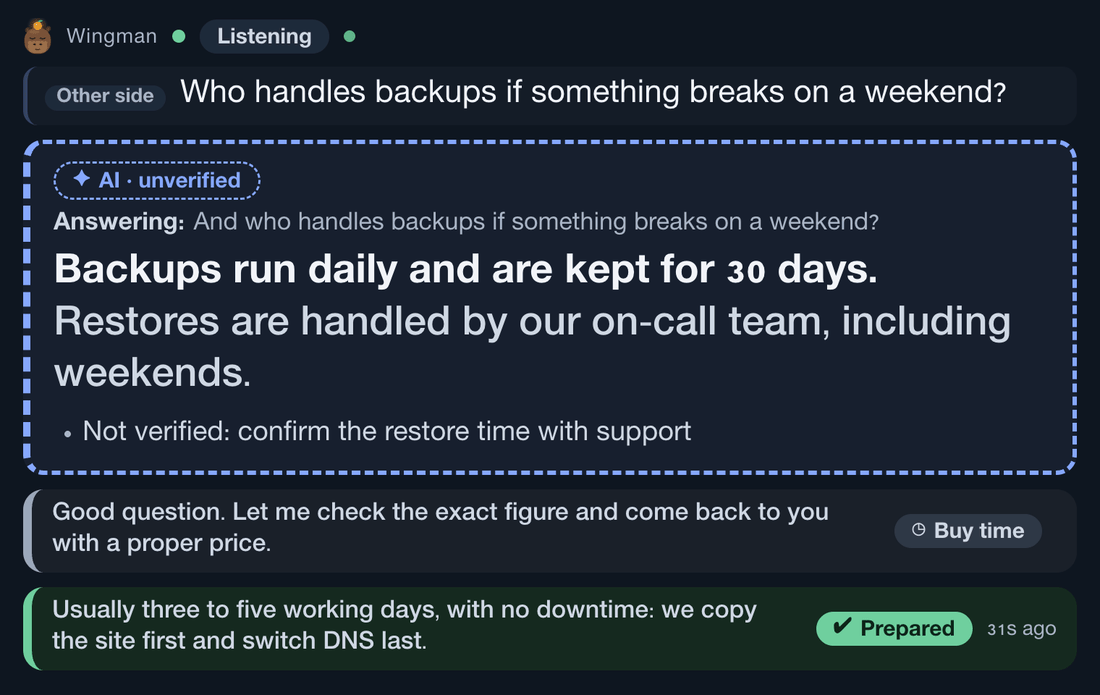
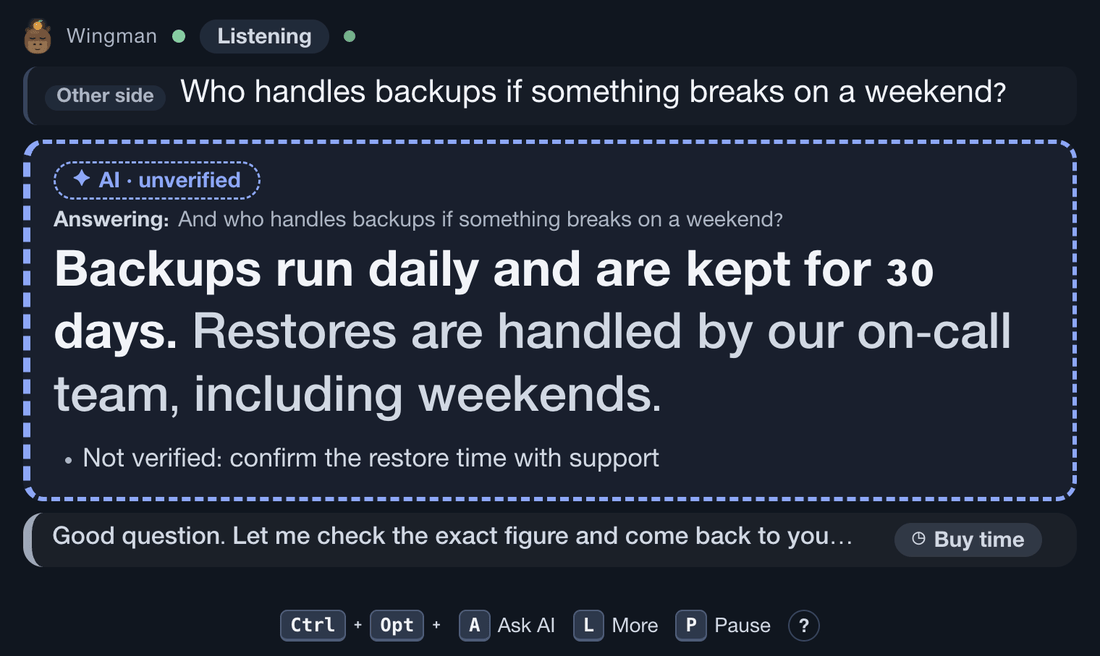
Docs: retake screenshots for the Focus layout, follow-up page and starter packs

diff --git a/docs/USER-GUIDE.md b/docs/USER-GUIDE.md
@@ -32,19 +32,28 @@ All pictures use invented data. The client, the numbers and the answers are made
 
 ### The answer window
 
-This is the window you read during a call. Put it on the second screen. By default it uses the **Focus** layout: what they said, one big answer, and a small **More: 3** button (or Ctrl+Opt+L) that opens the checklist, client card, AI notes and captured details. In **Settings, Answer window layout** you can switch to **Full**, which shows everything at once, as in the picture below.
+This is the window you read during a call. Put it on the second screen. By default it uses the **Focus** layout: what they said, one big answer, one small line for the answer before it, and a **More** button. In **Settings, Answer window layout** you can switch to **Full**, which shows everything at once.
 
-<img src="ux/answer-window-en-ui.png" alt="The answer window with a transcript line, an AI card, a buy-time line, captured details, a checklist, a client card and AI notes" width="520">
+<img src="ux/answer-window-en-ui.png" alt="The answer window in the Focus layout: the other side's last line, one big AI answer, a buy-time line, a More button and the key bar" width="520">
 
 1. **Listening** (top): Wingman hears the call. It says **Paused** when you pause it. Next to it are two small dots: the first shows the call state, the last one is the health dot. Green means everything works, amber means something is degraded (for example a weak microphone), red means something is not working. Hover over it to read the reason.
 2. **Other side**: the last thing the other person said.
-3. **AI · unverified** (dashed border): an answer written by the AI. Check it before you say it. A line starting "Answering:" shows which question it answers.
+3. **AI · unverified** (dashed border): the one big answer, written by the AI. Check it before you say it. A line starting "Answering:" shows which question it answers.
 4. **Prepared** (green, not shown here): an answer from your own answer pack. You wrote it, so you can trust it more.
-5. **Buy time**: a safe line to say while you check a number. Wingman uses it instead of inventing a price or a date.
-6. **Numbered chips** (Phone, Email, Domain): details heard in the call. Press Ctrl+Opt and the number to copy one.
-7. **You have not talked about:** your checklist of topics still open. **Levy Electronics** is the client card. **AI notes** are points the AI noticed.
-8. **Bottom bar**: the hotkeys. In Focus it shows three: Ctrl+Opt+A asks the AI, L opens More, P pauses. Press **?** to see all of them (R shows what they said, C clears, 1-3 copy a detail). Full shows them all.
-9. **Writing...**: while an AI answer is still arriving, its label says so. Wait until it stops before you read it out.
+5. **Buy time**: the small line under the big card. It is the answer before this one. Here it is a safe line to say while you check a number. Wingman uses it instead of inventing a price or a date.
+6. **More: 8** (Ctrl+Opt+L): opens the extra panel, shown next. It closes by itself after a while.
+7. **Key bar** (bottom): Ctrl+Opt+A asks the AI, L opens More, P pauses. Press **?** to see all of them (R shows what they said, C clears, 1-3 copy a detail).
+8. **Writing...**: while an AI answer is still arriving, its label says so. Wait until it stops before you read it out.
+
+#### The More panel
+
+<img src="ux/answer-window-more.png" alt="The answer window with the More panel open: numbered chips for a phone number, an email and a domain, a checklist, a client card and AI notes" width="520">
+
+1. **Numbered chips** (Phone, Email, Domain): details heard in the call. Press Ctrl+Opt and the number to copy one.
+2. **You have not talked about:** your checklist of topics still open.
+3. **Levy Electronics** is the client card. **AI notes** are points the AI noticed.
+
+In the Full layout all of this is on screen all the time.
 
 ### Home, during a call
 
@@ -68,7 +77,7 @@ This is the window you read during a call. Put it on the second screen. By defau
 
 ### One call: Follow-up
 
-<img src="ux/call-detail-followup.png" alt="A finished call with the Follow-up tab: summary, next steps, decisions, open questions and a follow-up email" width="640">
+<img src="ux/call-detail-followup.png" alt="A finished call opening on the Follow-up tab: big Copy follow-up email and Copy summary buttons, the summary, next steps, decisions and the email draft" width="640">
 
 1. **Live** or **Practice** shows what kind of call it was. **Delete call** removes it.
 2. **Tabs**: **Follow-up**, **Rate** (mark each card useful or not), **Transcript**, **Missed questions** (questions with no card) and **Details**.
@@ -83,6 +92,13 @@ This is the window you read during a call. Put it on the second screen. By defau
 2. **Open** shows the details of a step. **Close** hides them again.
 3. Below the practice call are the two key fields (Deepgram and Anthropic). Paste a key, press **Save**, then test it. The next steps cover "Your privacy" (two choices about listening and your audio), permissions, microphone, screens, your answer pack, a readiness check and a practice call.
 4. **Skip this step** is always allowed. You can come back from **Settings, Setup guide**.
+
+The **Answer pack** step offers starter packs, so you do not begin with an empty folder:
+
+<img src="ux/setup-starter-packs.png" alt="The Answer pack step open, with a Start from list: Sales, Customer support, Job interview practice, Empty pack and Web hosting example, and a Copy to my folder button" width="520">
+
+1. **Start from**: pick the starter closest to your work. **Web hosting (example)** is the invented example Wingman uses until you choose.
+2. **Copy to my folder** copies the starter to your own pack folder. You edit the copy there. **Keep the example for now** changes nothing.
 
 ## Update and uninstall
 

diff --git a/README.md b/README.md
@@ -11,7 +11,7 @@
 </p>
 
 <p align="center">
-  <img src="docs/ux/hero.gif" alt="The Wingman answer window during a call: a client asks about a CDN, a migration and a price, and answer cards appear within about a second (invented example)" width="560">
+  <img src="docs/ux/hero.gif" alt="The Wingman answer window during a call: a client asks about a CDN, a migration and a price, and one big answer card appears within about a second (invented example)" width="560">
 </p>
 
 Wingman is a live call copilot for client, support and team calls. It listens to your call (the other side on system audio, you on the microphone), transcribes it in real time and shows short answer cards on a second screen: a ready-made answer from your own answer bank when the other side asks a common question, or a short AI answer when it does not. After the call it writes a summary and a follow-up email draft.
@@ -49,11 +49,11 @@ Also:
 
 | Answer window | Main window |
 |---|---|
-| <img src="docs/ux/answer-window-hero.png" alt="The answer window with an AI card, a buy-time line and a prepared card, and the green status dot in the header" width="480"> | <img src="docs/ux/home-window.png" alt="The Home view of the main window during a live call" width="480"> |
+| <img src="docs/ux/answer-window-hero.png" alt="The answer window in the default Focus layout: the other side's question, one big AI answer, a buy-time line and the key bar" width="480"> | <img src="docs/ux/home-window.png" alt="The Home view of the main window during a live call" width="480"> |
 
 | English labels | Hebrew card (right-to-left by itself) |
 |---|---|
-| <img src="docs/ux/answer-window-en-ui.png" alt="The answer window with English labels: an AI card, a buy-time line, captured details and notes" width="400"> | <img src="docs/ux/for-you-card.png" alt="The answer window with a Hebrew card, right-to-left" width="400"> |
+| <img src="docs/ux/answer-window-more.png" alt="The answer window with the More panel open: captured details, a checklist, a client card and AI notes" width="400"> | <img src="docs/ux/for-you-card.png" alt="The answer window with a Hebrew card, right-to-left" width="400"> |
 
 A guided tour of every part of the windows: [docs/USER-GUIDE.md](docs/USER-GUIDE.md#tour-of-the-windows). All screenshots use invented data. The Hebrew card answers "What is the difference between a CDN and DNS?": a CDN spreads copies of the site to servers near the visitor, and DNS only translates a domain name into the server's address.
 
